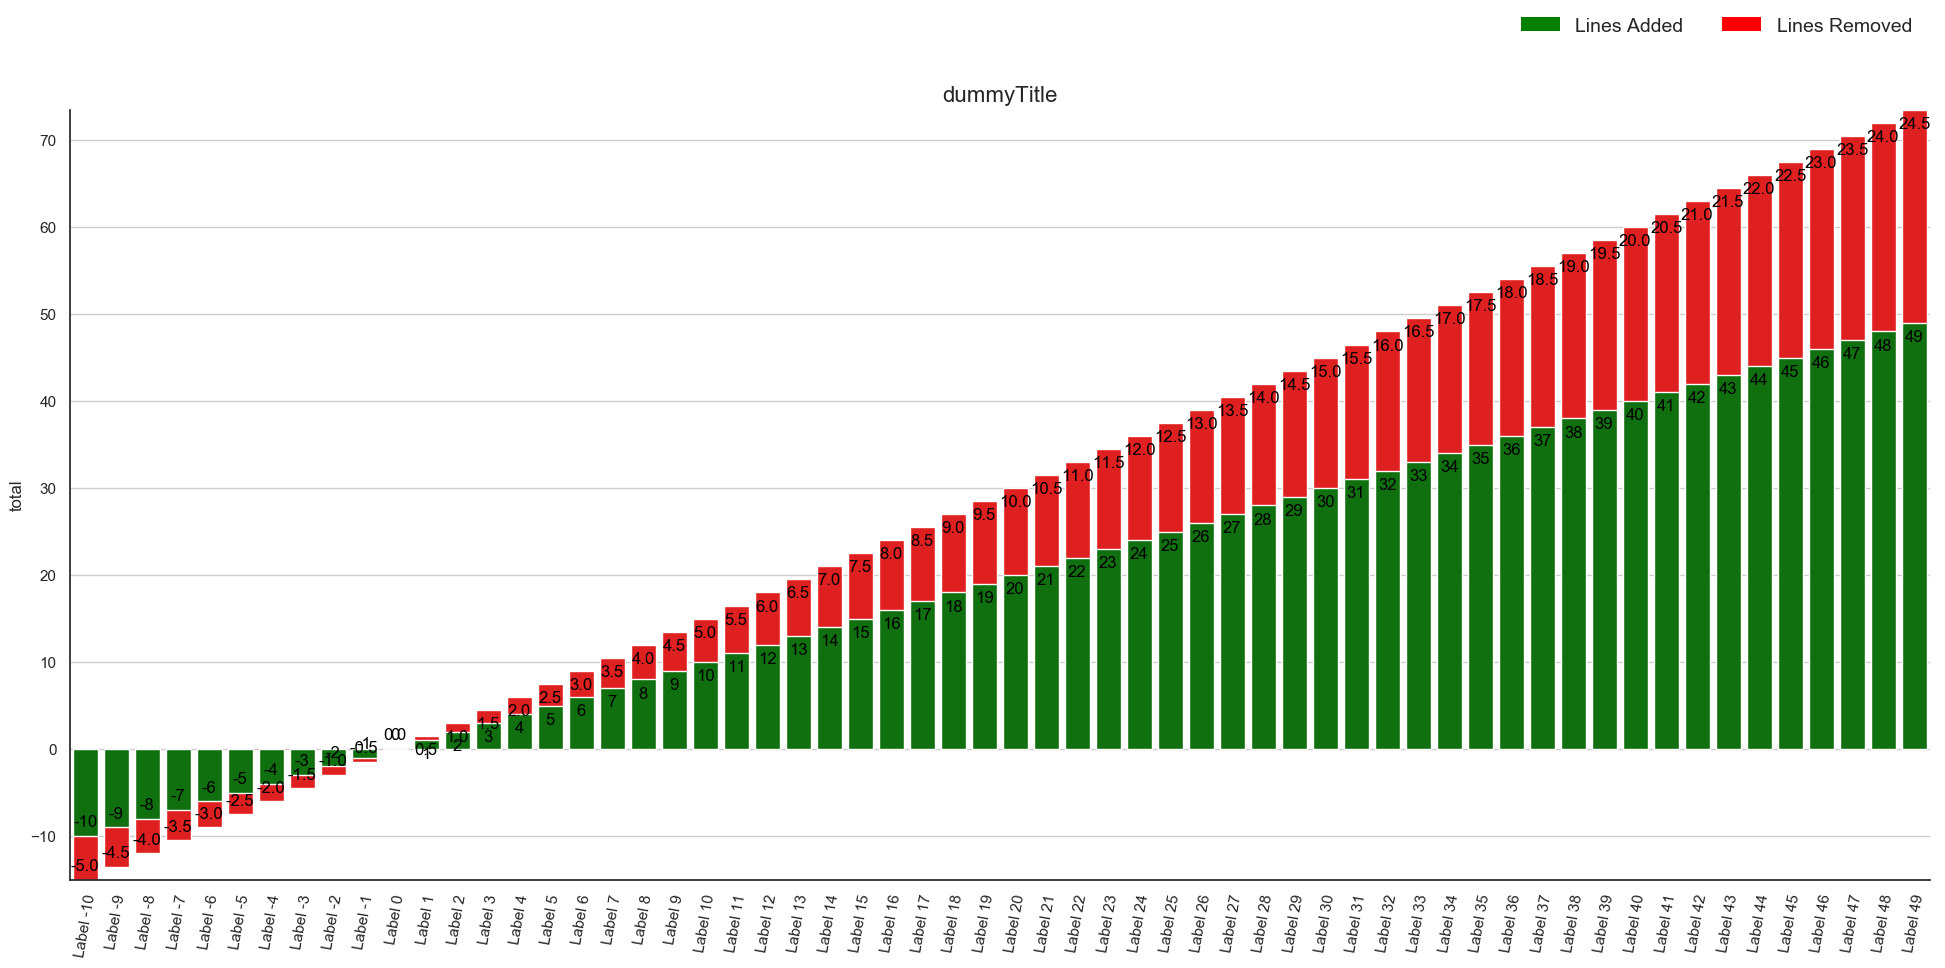
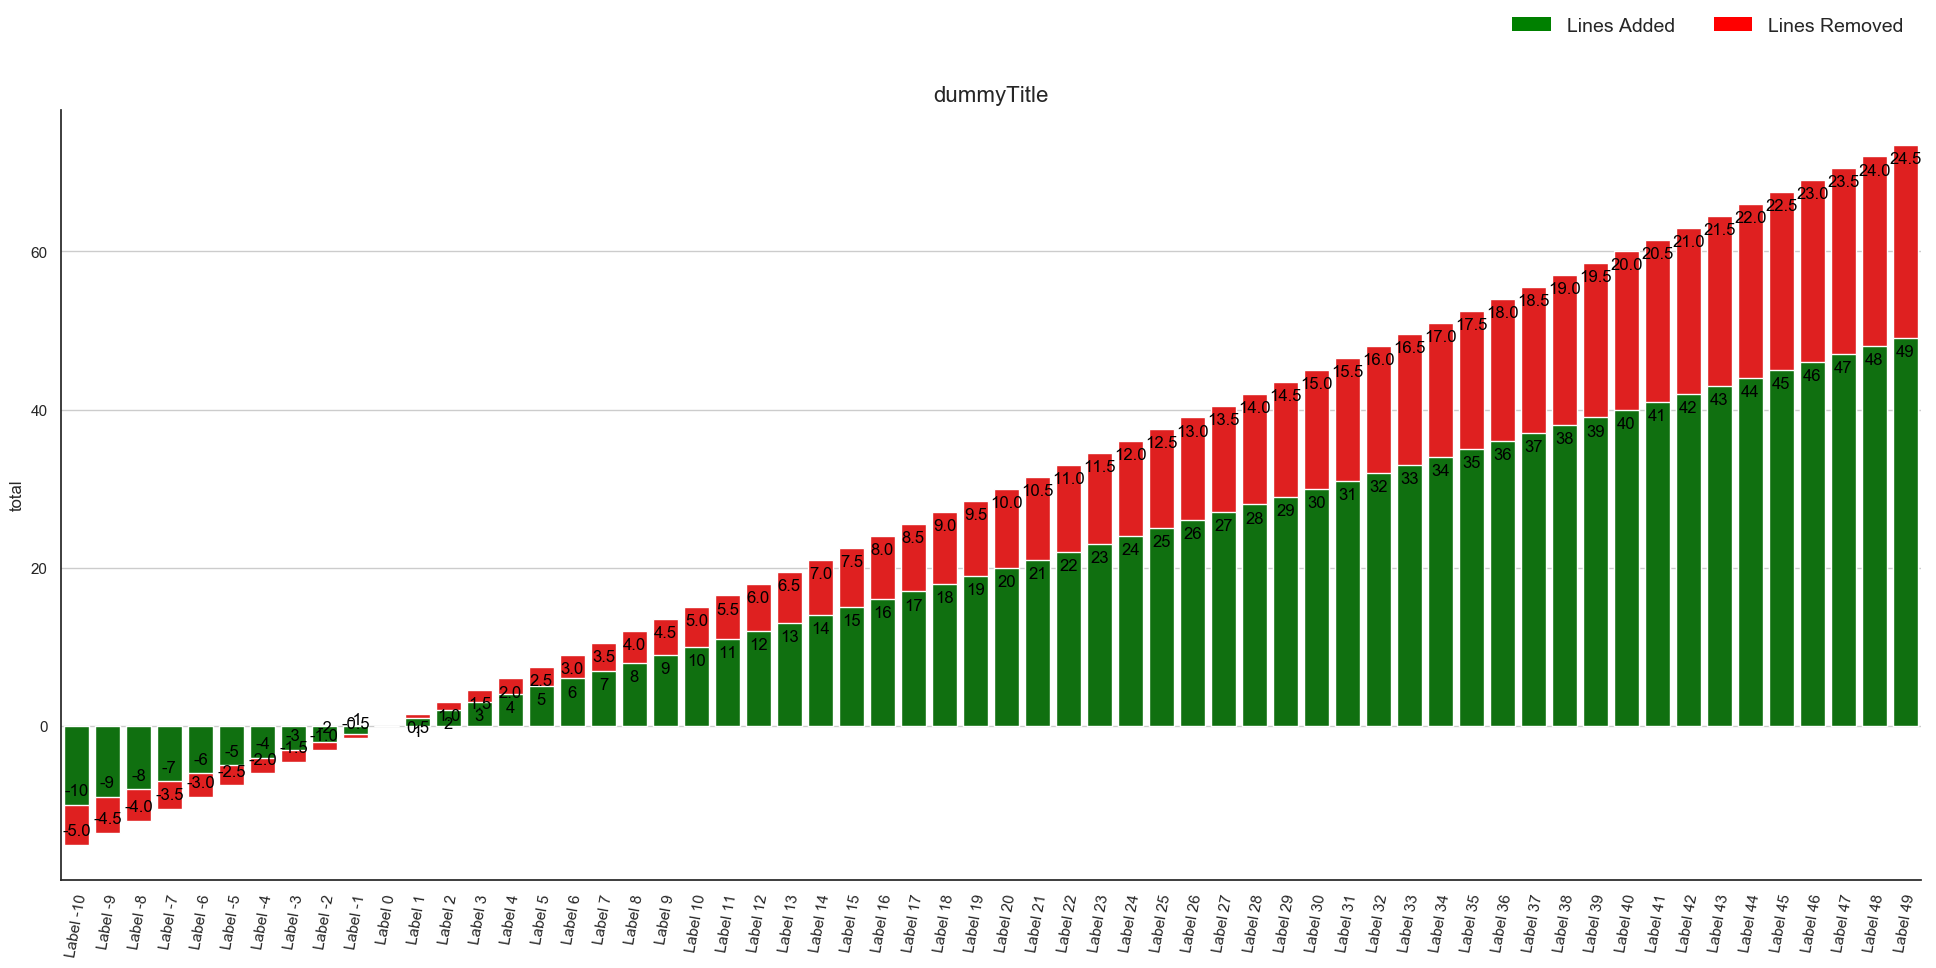
- tests for stacked barchart

diff --git a/sat/report/plot.py b/sat/report/plot.py
@@ -142,43 +142,16 @@ def plot_stacked_barchart(data_frame, ylabel, title, folder, file_name):
     axis.spines["right"].set_visible(False)
     # Plot 1 - background - "total" (top) series
     top_plot = sns.barplot(x=labels, y=data_total, color="red")
-    for index, total in enumerate(data_total):
-        top_plot.annotate(
-            s=str(data_top[index]),
-            xy=(index, total),
-            ha="center",
-            va="center",
-            xytext=(0, -10 if total > 0 else 10),
-            textcoords="offset points",
-            color="black",
-        )
+    _labels_bars(data_total, top_plot, data_top)
     # grid
     top_plot.yaxis.grid()
-    top_plot.set_ylim(min(data_total), max(data_total))
     # Plot 2 - overlay - "bottom" series
     bottom_plot = sns.barplot(x=labels, y=data_bottom, color="green")
-    for index, y_value in enumerate(data_bottom):
-        bottom_plot.annotate(
-            s=str(y_value),
-            xy=(index, y_value),
-            ha="center",
-            va="center",
-            xytext=(0, -10 if y_value > 0 else 10),
-            textcoords="offset points",
-            color="black",
-        )
+    _labels_bars(data_bottom, bottom_plot, data_bottom)
     # Legend
     top_bar = plt.Rectangle((0, 0), 1, 1, fc="red", edgecolor="none")
     bottom_bar = plt.Rectangle((0, 0), 1, 1, fc="green", edgecolor="none")
-    legend = plt.legend(
-        [bottom_bar, top_bar],
-        [data_column_bottom, data_column_top],
-        ncol=2,
-        prop={"size": 14},
-        bbox_to_anchor=(0.9, 0.99),
-        bbox_transform=plt.gcf().transFigure,
-    )
-    legend.draw_frame(False)
+    _legend([bottom_bar, top_bar], [data_column_bottom, data_column_top])
     bottom_plot.set_ylabel(ylabel)
     bottom_plot.set_title(title, fontsize=16)
     # rotate labels
@@ -218,20 +191,17 @@ def plot_barchart(data_frame, ylabel, title, folder, file_name):
     plt.xticks(labels_pos, labels)
     axis.set_ylabel(ylabel)
     axis.set_title(title, fontsize=16)
-    for index, y_value in enumerate(y_values):
-        axis.annotate(
-            s=str(y_value),
-            xy=(index, y_value),
-            ha="center",
-            va="center",
-            xytext=(0, -10 if y_value > 0 else 10),
-            textcoords="offset points",
-            color="black",
-        )
+    _labels_bars(y_values, axis, y_values)
     legend_bar = plt.Rectangle((0, 0), 1, 1, fc="green", edgecolor="none")
+    _legend([legend_bar], [column_name])
+    plt.xticks(rotation=90)
+    _write_figure_and_reset(fig, folder, file_name)
+
+
+def _legend(bars, names):
     legend = plt.legend(
-        [legend_bar],
-        [column_name],
+        bars,
+        names,
         ncol=2,
         prop={"size": 14},
         bbox_to_anchor=(0.9, 0.99),
@@ -239,8 +209,19 @@ def plot_barchart(data_frame, ylabel, title, folder, file_name):
     )
     legend.draw_frame(False)
 
-    plt.xticks(rotation=90)
-    _write_figure_and_reset(fig, folder, file_name)
+
+def _labels_bars(y_positions, plot, values):
+    for index, y_pos in enumerate(y_positions):
+        if values[index] != 0:
+            plot.annotate(
+                s=str(values[index]),
+                xy=(index, y_pos),
+                ha="center",
+                va="center",
+                xytext=(0, -10 if y_pos > 0 else 10),
+                textcoords="offset points",
+                color="black",
+            )
 
 
 def _trim_labels(orig_labels, max_length):

diff --git a/test/report/test_plot_stacked_barchart.py b/test/report/test_plot_stacked_barchart.py
@@ -6,36 +6,42 @@ import pandas as pd
 import sat.report.plot as sut
 
 
-class PlotBarchartTest(unittest.TestCase):
+class PlotStackedBarchartTest(unittest.TestCase):
     @mock.patch("sat.report.plot._write_figure_and_reset")
-    def test_plot_barchart_does_not_plot_if_dataframe_empty(self, mock_writer):
-        sut.plot_barchart(pd.DataFrame(), "", "", "", "")
+    def test_plot_stacked_barchart_does_not_plot_if_dataframe_empty(self, mock_writer):
+        sut.plot_stacked_barchart(pd.DataFrame(), "", "", "", "")
 
         self.assertFalse(mock_writer.called)
 
     @mock.patch("sat.report.plot._write_figure_and_reset")
-    def test_plot_barchart_does_plot(self, mock_writer):
+    def test_plot_stacked_barchart_does_plot(self, mock_writer):
         dummy_dataframe = pd.DataFrame(
-            data=[["Label %d" % dummyval, dummyval] for dummyval in list(range(0, 10))],
-            columns=["Label", "Value"],
+            data=[
+                ["Label %d" % dummyval, dummyval, dummyval]
+                for dummyval in list(range(0, 10))
+            ],
+            columns=["Label", "Value 1", "Value 2"],
         )
-        sut.plot_barchart(dummy_dataframe, "", "", "", "")
+        sut.plot_stacked_barchart(dummy_dataframe, "", "", "", "")
 
         self.assertTrue(mock_writer.called)
 
     @mock.patch("sat.report.plot._write_figure_and_reset")
-    def test_plot_barchart_does_plot_if_data_extends_max_limit(self, mock_writer):
+    def test_plot_stacked_barchart_does_plot_if_data_extends_max_limit(
+        self, mock_writer
+    ):
         dummy_dataframe = pd.DataFrame(
             data=[
                 [
                     "Label with long long long long long long long long long long long long long long text %d"
                     % dummyval,
                     dummyval,
+                    dummyval,
                 ]
                 for dummyval in list(range(0, 100))
             ],
-            columns=["Label", "Value"],
+            columns=["Label", "Value 1", "Value 2"],
         )
-        sut.plot_barchart(dummy_dataframe, "", "", "", "")
+        sut.plot_stacked_barchart(dummy_dataframe, "", "", "", "")
 
         self.assertTrue(mock_writer.called)

diff --git a/test/report/test_plot_treemap.py b/test/report/test_plot_treemap.py
@@ -45,6 +45,17 @@ class PlotTreemapTest(unittest.TestCase):
         self.assertFalse(mock_writer.called)
 
     @mock.patch("sat.report.plot._write_figure_and_reset")
+    def test_plot_treemap_does_not_plot(self, mock_writer):
+        dummy_data = [
+            ["Entry name %s" % dummy_val, dummy_val] for dummy_val in list(range(1, 10))
+        ]
+        dummy_dataframe = pd.DataFrame(dummy_data)
+
+        sut.plot_treemap(dummy_dataframe, "", "", "", "")
+
+        self.assertTrue(mock_writer.called)
+
+    @mock.patch("sat.report.plot._write_figure_and_reset")
     def test_plot_treemap_does_not_plot_if_dataframe_contains_zero(self, mock_writer):
         dummy_data = [
             ["Entry name %s" % dummy_val, dummy_val] for dummy_val in list(range(0, 22))
@@ -106,7 +117,8 @@ class PlotTreemapTest(unittest.TestCase):
         used_file_name = "test_treemap.png"
         exp_logger_name = sut.__name__
         dummy_data = [
-            ["Entry name %s" % dummy_val, dummy_val] for dummy_val in list(range(1, 22))
+            ["Entry name with long long long long label %s" % dummy_val, dummy_val]
+            for dummy_val in list(range(1, 22))
         ]
         dummy_dataframe = pd.DataFrame(dummy_data)
 

diff --git a/test/report/test_plot_heatmap.py b/test/report/test_plot_heatmap.py
@@ -14,18 +14,17 @@ class PlotHeatmapTest(unittest.TestCase):
         self.assertFalse(mock_writer.called)
 
     @mock.patch("sat.report.plot._write_figure_and_reset")
-    def test_plot_heatmap_does_not_plot_if_dataframe_extends_max_limit(
-        self, mock_writer
-    ):
+    @mock.patch("seaborn.heatmap")
+    def test_plot_heatmap_does_plot(self, heatmap_mock, mock_writer):
         dummy_data = [
-            ["Entry name %s" % dummy_val, dummy_val]
-            for dummy_val in list(range(0, 201))
+            ["Entry name %s" % dummy_val, dummy_val] for dummy_val in list(range(1, 10))
         ]
         dummy_dataframe = pd.DataFrame(dummy_data)
 
         sut.plot_heatmap(dummy_dataframe, "", "", "")
 
-        self.assertFalse(mock_writer.called)
+        self.assertTrue(mock_writer.called)
+        self.assertTrue(heatmap_mock.called)
 
     def test_plot_heatmap_logs_exp_message_for_empty_dataframe(self):
         used_file_name = "dummyFileName"

diff --git a/test_integration/report/test_int_plot_barchart.py b/test_integration/report/test_int_plot_barchart.py
@@ -45,4 +45,3 @@ class PlotBarchartTest(unittest.TestCase):
 
     def tearDown(self):
         shutil.rmtree(reporttest.TEST_RESULTS_FOLDER, ignore_errors=True)
-        # pass
